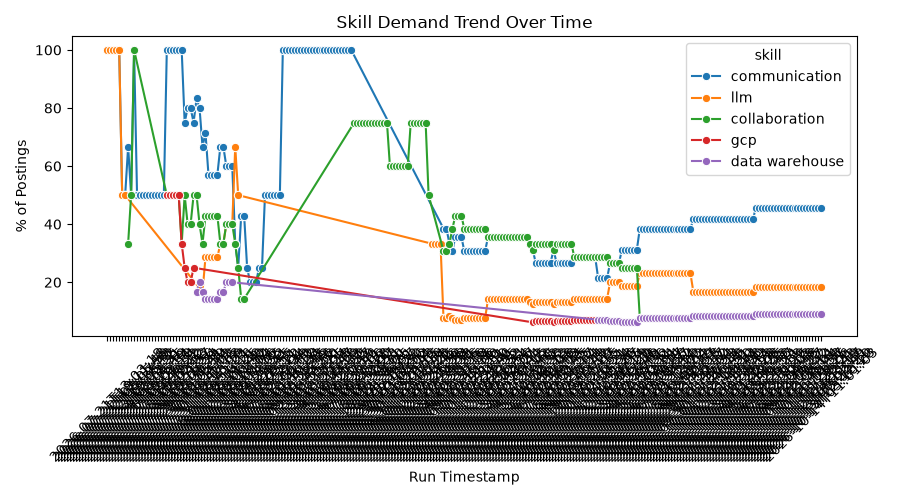
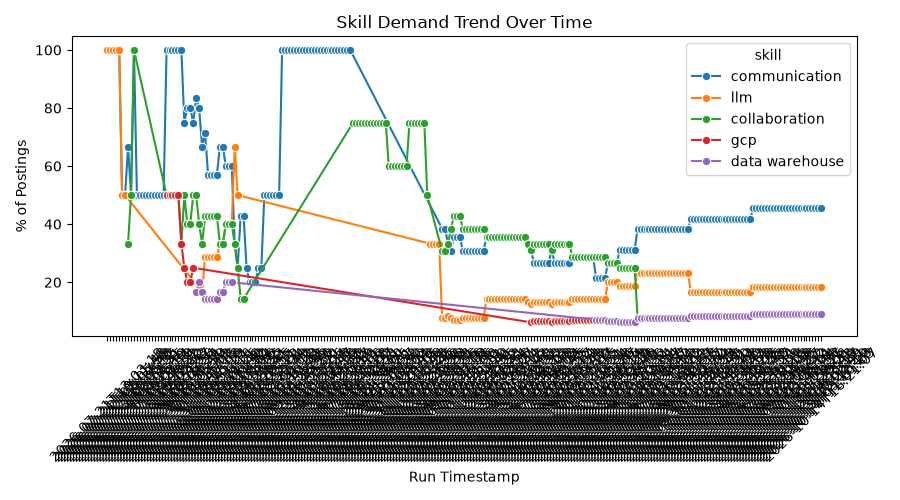
chore: update AI/data job skill tracking 2026-10-14T16:21:09Z

diff --git a/reports/summary_report.md b/reports/summary_report.md
@@ -2,9 +2,9 @@
 
 
 
-_Generated: 2026-10-14T11:01:04_
+_Generated: 2026-10-14T16:21:08_
 
-_Based on 244 accumulated run(s)_
+_Based on 245 accumulated run(s)_
 
 
 
@@ -134,4 +134,4 @@ _No data._
 
 ## Historical Trend
 
-Skill demand over time (last 244 run(s)): `/home/runner/work/CAREER-TRANSITION-JOB-SCRAPER/CAREER-TRANSITION-JOB-SCRAPER/history/figures/skill_demand_trend.png`
+Skill demand over time (last 245 run(s)): `/home/runner/work/CAREER-TRANSITION-JOB-SCRAPER/CAREER-TRANSITION-JOB-SCRAPER/history/figures/skill_demand_trend.png`
